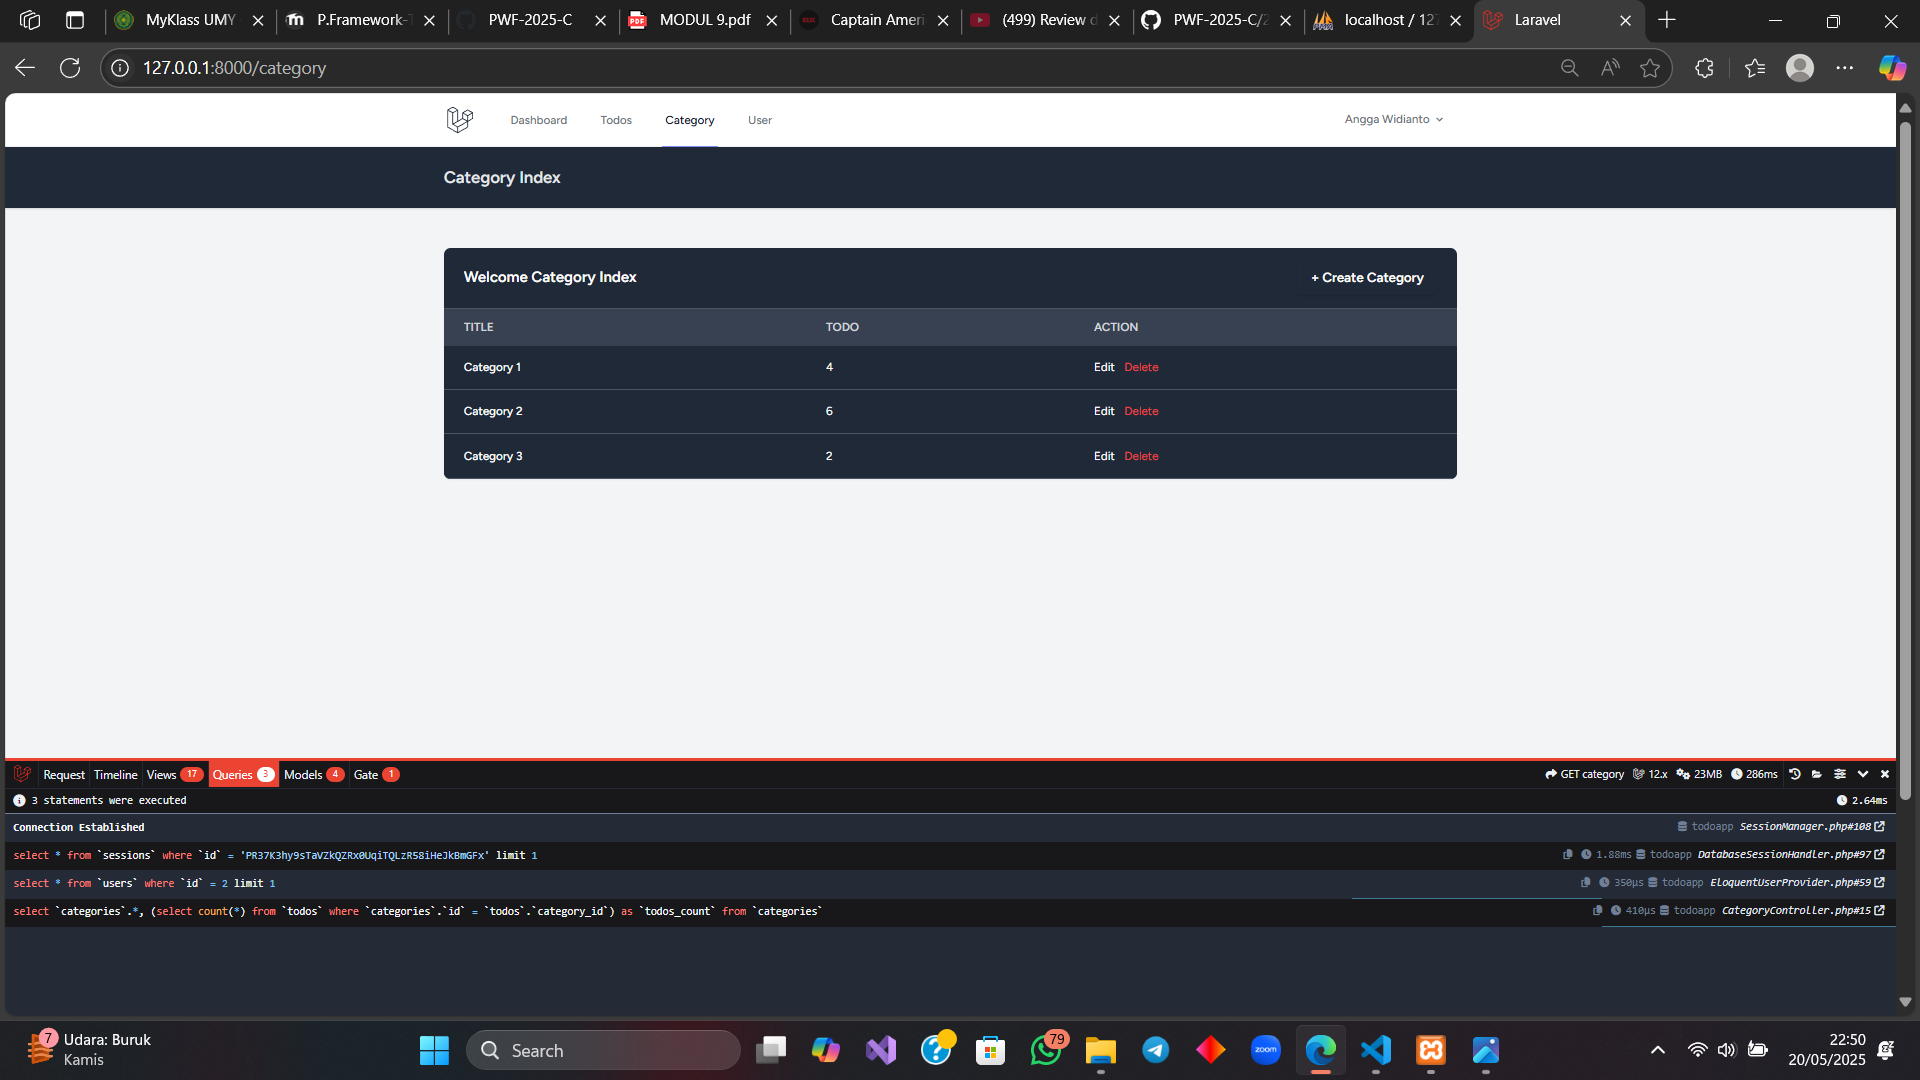
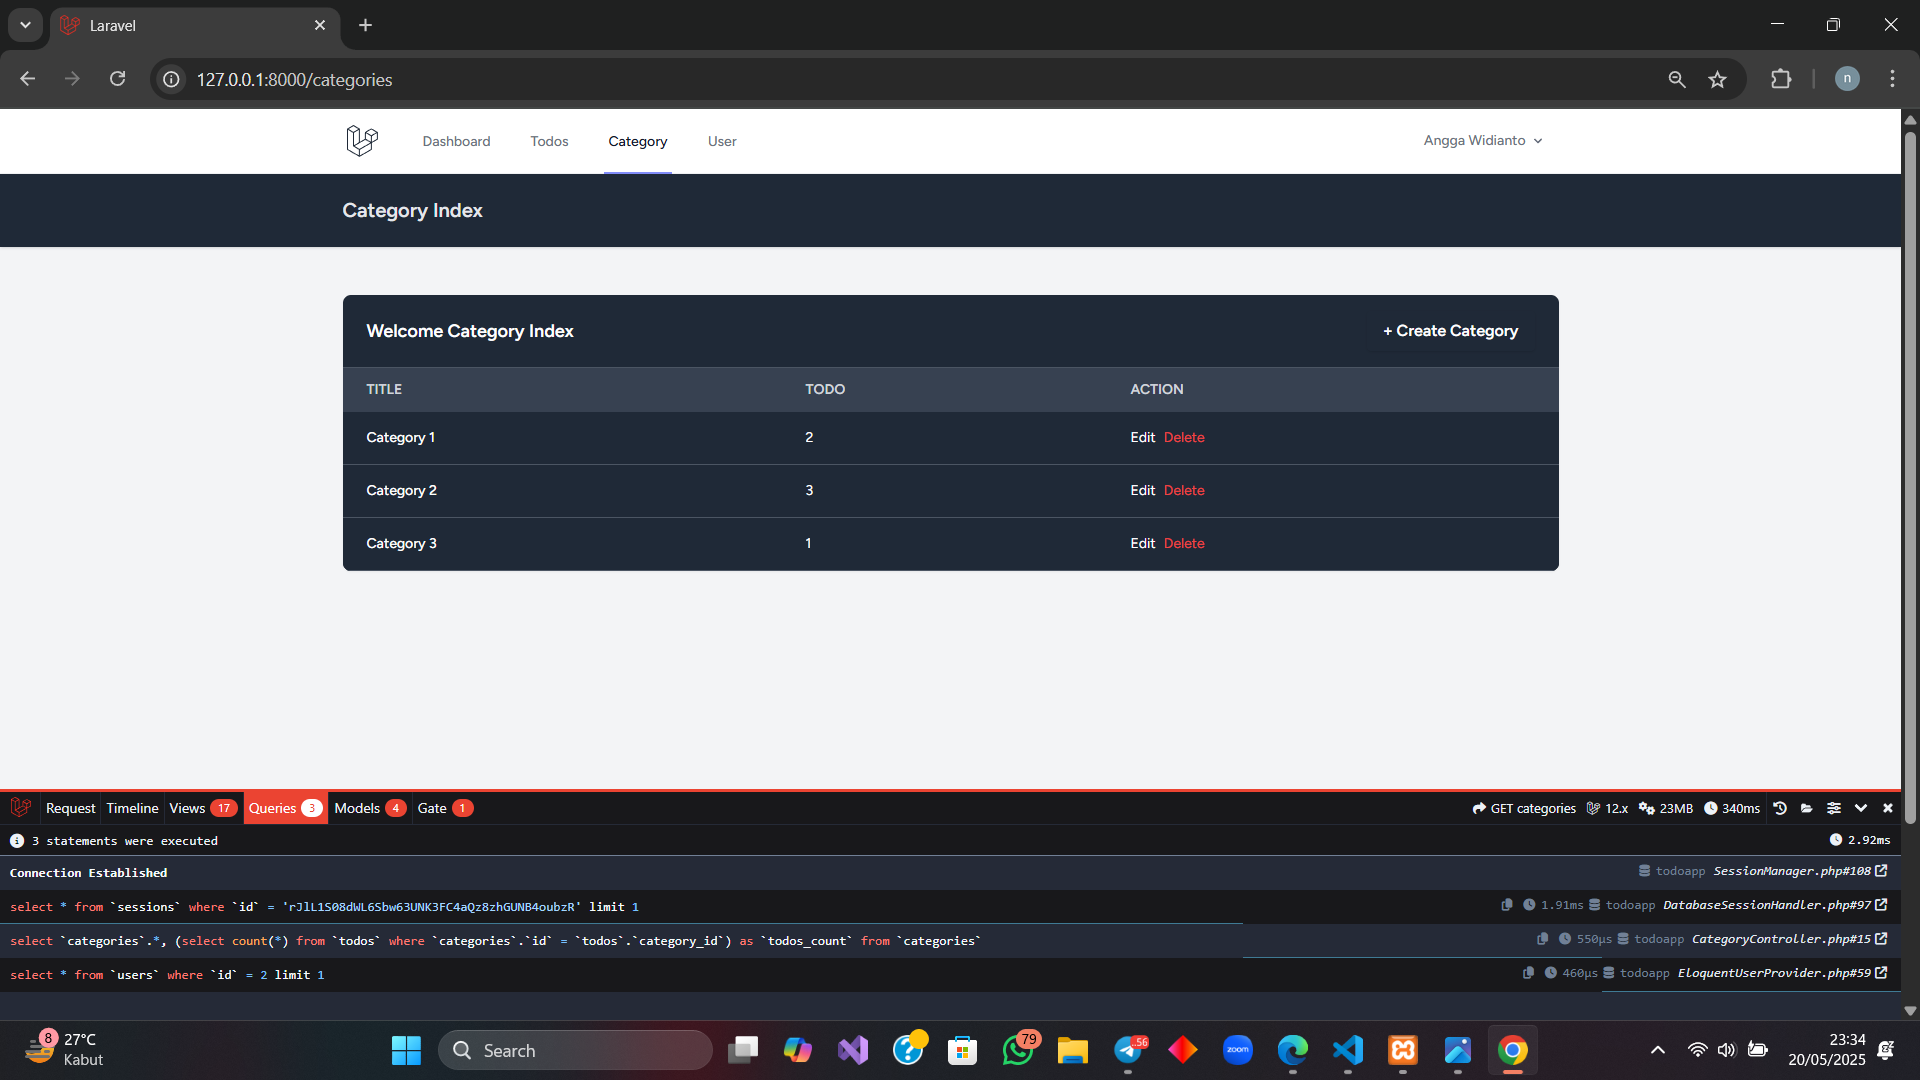
n+1 problem fix

diff --git a/resources/views/categories/index.blade.php b/resources/views/categories/index.blade.php
@@ -39,23 +39,30 @@
                                 <td class="px-6 py-4">
                                     {{ $category->todos_count }}
                                 </td>
-                                <td class="px-6 py-4 space-x-2">
-                                <a href="{{ route('categories.edit', $category->id) }}" class="text-blue-400 hover:underline">Edit</a>
+                                <td class="px-6 py-4 space-x-2 flex items-center">
+                                <!-- Edit -->
+                                <a href="{{ route('categories.edit', $category->id) }}" class="text-blue-400 hover:underline">
+                                    Edit
+                                </a>
 
-                                <form action="{{ route('categories.destroy', $category->id) }}" method="POST" style="display:inline;" onsubmit="return confirm('Yakin ingin menghapus kategori ini?')">
+                                <!-- Delete -->
+                                <form action="{{ route('categories.destroy', $category->id) }}" method="POST" class="inline-block">
                                     @csrf
                                     @method('DELETE')
-                                    <button type="submit" class="text-red-500 hover:underline">
+                                    <button type="submit" class="text-red-500 hover:underline"
+                                        onclick="return confirm('Yakin ingin menghapus kategori ini?')">
                                         Delete
                                     </button>
                                 </form>
-                            </td>
 
 
+                                </td>
                             </tr>
                         @empty
                             <tr>
-                                <td colspan="3" class="px-6 py-4 text-center text-gray-400">No categories found.</td>
+                                <td colspan="3" class="px-6 py-4 text-center text-gray-400">
+                                    No categories found.
+                                </td>
                             </tr>
                         @endforelse
                     </tbody>

diff --git a/app/Http/Controllers/CategoryController.php b/app/Http/Controllers/CategoryController.php
@@ -39,13 +39,8 @@ class CategoryController extends Controller
     
     public function destroy(Category $category)
     {
-        if ($category->user_id !== Auth::id()) {
-            return redirect()->route('categories.index')->with('danger', 'Anda tidak diizinkan menghapus kategori ini.');
-        }
-
         $category->delete();
-
-        return redirect()->route('categories.index')->with('success', 'Category deleted successfully!');
+        return redirect()->route('categories.index')->with('success', 'Category deleted!');
     }
 
     public function show(string $id)
@@ -54,26 +49,16 @@ class CategoryController extends Controller
         return view('categories.show', compact('category'));
     }   
 
-    public function edit(category $category)
+    public function edit(Category $category)
     {
-        if (auth()->user()->id == $category->user_id) {
-            return view('categories.edit', compact('category'));
-        } else {
-            return redirect()->route('categories.index')->with('danger', 'You are not authorized to edit this todo!');
-        }
-
+        return view('categories.edit', compact('category'));
     }
 
     public function update(Request $request, Category $category)
     {
-        $request->validate([
-            'name' => 'required|max:255',
-        ]);
-        $category->update([
-            'name' => ucfirst($request->name),
-        ]);
-
-        return redirect()->route('categories.index')->with('success', 'Category updated successfully!');
+        $request->validate(['name' => 'required|string|max:255']);
+        $category->update(['name' => $request->name]);
+        return redirect()->route('categories.index')->with('success', 'Category updated!');
     }
 
 }

diff --git a/resources/views/layouts/navigation.blade.php b/resources/views/layouts/navigation.blade.php
@@ -20,7 +20,7 @@
                         {{ __('Todos') }}
                     </x-nav-link>
 
-                    <x-nav-link :href="route('category.index')" :active="request()->routeIs('category.*')">
+                    <x-nav-link :href="route('categories.index')" :active="request()->routeIs('categories.*')">
                         {{ __('Category') }}
                     </x-nav-link>
 
@@ -90,14 +90,13 @@
                 {{ __('Todos') }}
             </x-responsive-nav-link>
 
-
             @if (Auth::check() && Auth::user()->is_admin)
                 <x-responsive-nav-link :href="route('user.index')" :active="request()->routeIs('users.*')">
                     {{ __('User') }}
                 </x-responsive-nav-link>
             @endif
 
-            <x-responsive-nav-link :href="route('category.index')" :active="request()->routeIs('category.*')">
+            <x-responsive-nav-link :href="route('categories.index')" :active="request()->routeIs('categories.*')">
                 {{ __('Category') }}
             </x-responsive-nav-link>
         </div>

diff --git a/routes/web.php b/routes/web.php
@@ -6,9 +6,6 @@ use App\Http\Controllers\UserController;
 use Illuminate\Support\Facades\Route;
 use App\Http\Controllers\CategoryController;
 
-Route::middleware(['auth', 'admin'])->group(function () {
-    Route::resource('category', CategoryController::class)->except(['show']);
-});
 
 
 Route::get('/', function () {
